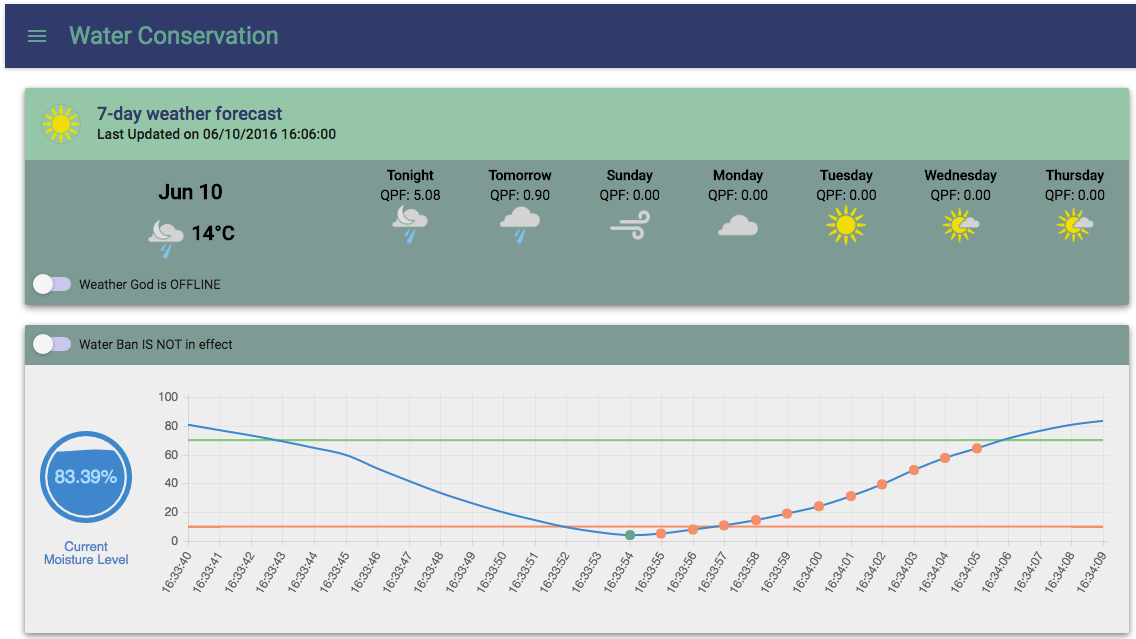
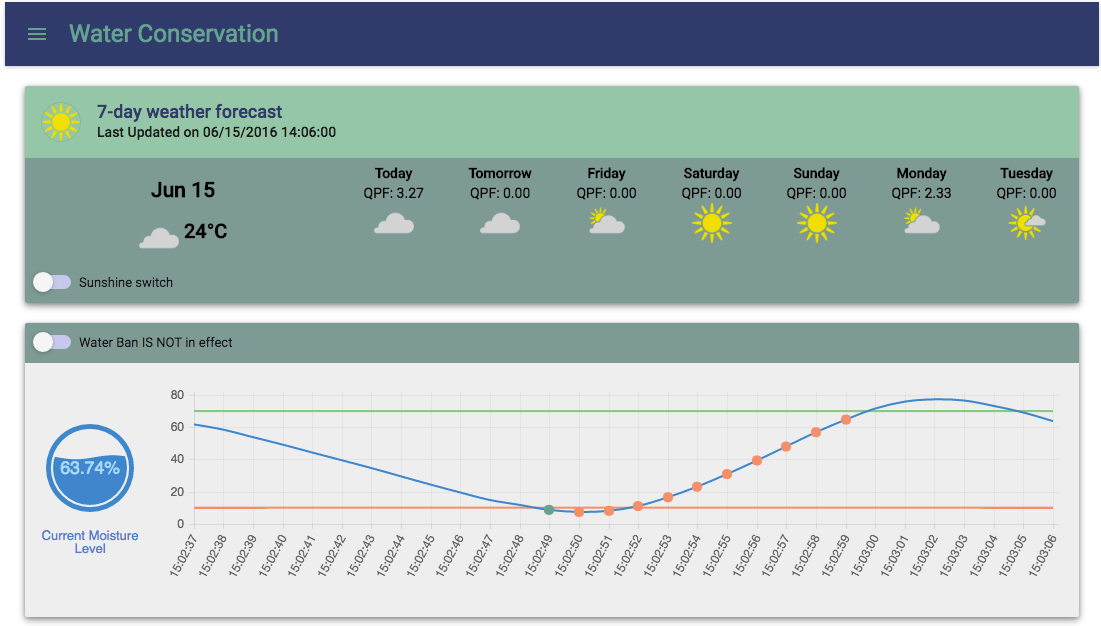
Fix download button on Safari

diff --git a/nodejs/app/client/DailyForecast.jsx b/nodejs/app/client/DailyForecast.jsx
@@ -204,14 +204,6 @@ class RainSlider extends BaseComponent {
       marginTop: '-28px'
     };
 
-    const zeus_style = {
-      width: '100px',
-      height: '100px',
-      paddingRight: '10px',
-      paddingLeft: '10px',
-      marginTop: '-28px'
-    };
-
     // Hide the control if simulator is not enabled.
     container.display = this.props.enable
       ? 'flex'
@@ -219,7 +211,6 @@ class RainSlider extends BaseComponent {
 
     return (
       <div style={container}>
-        <img style={zeus_style} src="/images/zeus.png"/>
         <img style={img_style} src={getIconURL(40)}/>
         <Slider defaultValue={this.state.rain_level} step={0.1} value={this.state.rain_level} onChange={this.handleChange} style={{
           flexGrow: 1
@@ -337,8 +328,8 @@ class DailyForecast extends BaseComponent {
     const temp_min = _.min(_.concat(max_temps, min_temps));
 
     const rain_simulator_status_text = this.state.rain_simulator.enable
-      ? ''
-      : 'Weather God is OFFLINE';
+      ? 'Slide to control weather condition'
+      : 'Sunshine switch';
 
     return (
       <Card>

diff --git a/nodejs/app/client/SensorChart.jsx b/nodejs/app/client/SensorChart.jsx
@@ -9,7 +9,6 @@
 /* end_generated_IBM_copyright_prolog                               */
 import React from 'react';
 import Card from 'material-ui/lib/card/card';
-// import CardHeader from 'material-ui/lib/card/card-header';
 import CardActions from 'material-ui/lib/card/card-actions';
 import Avatar from 'material-ui/lib/avatar';
 import Toggle from 'material-ui/lib/toggle';
@@ -382,15 +381,8 @@ class SensorChart extends BaseComponent {
       ? this.state.moistureData[currentMoistureLevelIdx]
       : 0;
 
-    // <CardHeader title="Moisture Sensor Status" subtitle="from Raspberry Pie" titleColor={AppTheme.cardTitleColor} subtitleColor={AppTheme.cardSubtitleColor} avatar="images/weathericons/icon19.png" style={{
-    //   backgroundColor: AppTheme.palette.primary2Color
-    // }} titleStyle={{
-    //   fontSize: 'large'
-    // }}/>
-
     return (
       <Card>
-
         <CardActions style={{
           backgroundColor: AppTheme.cardActionsBackground
         }}>

diff --git a/nodejs/app/server/routes/iot/iot-endpoint.js b/nodejs/app/server/routes/iot/iot-endpoint.js
@@ -39,6 +39,8 @@ endpt.get('/devicecfg', function(req, res, next) {
     cfg += '\nui-host = ' + config.server.ui_host;
     cfg += '\nsimulation = false';
 
+    res.set('Content-Disposition', 'attachment; filename=device.cfg');
+    res.set('Content-Type', 'application/octet-stream');
     res.send(cfg);
   });
 });

diff --git a/nodejs/app/server/routes/weather/weather-endpoint.js b/nodejs/app/server/routes/weather/weather-endpoint.js
@@ -45,7 +45,7 @@ var last_daily_result = null;
 var last_retrieved_time = null;
 var simulation_status = {
   enable: false,
-  rainy: 0.5
+  rainy: 1.0         // default to sunny weather (0.0: rainy, 1.0: sunny)
 };
 const max_qpf = 5.0;
 
